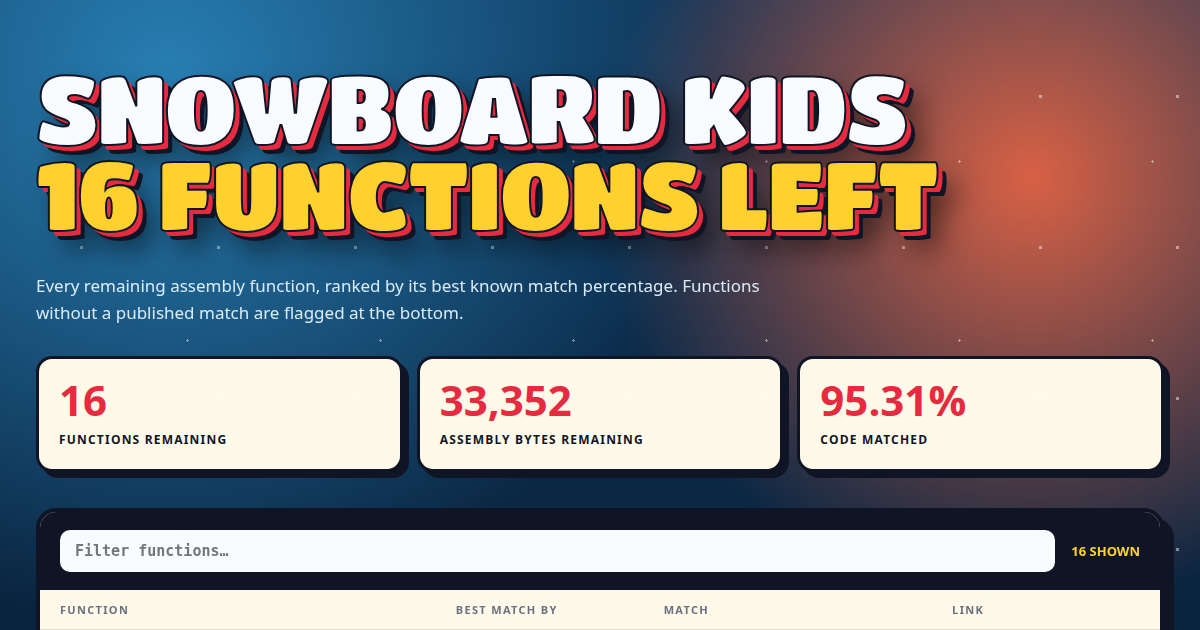
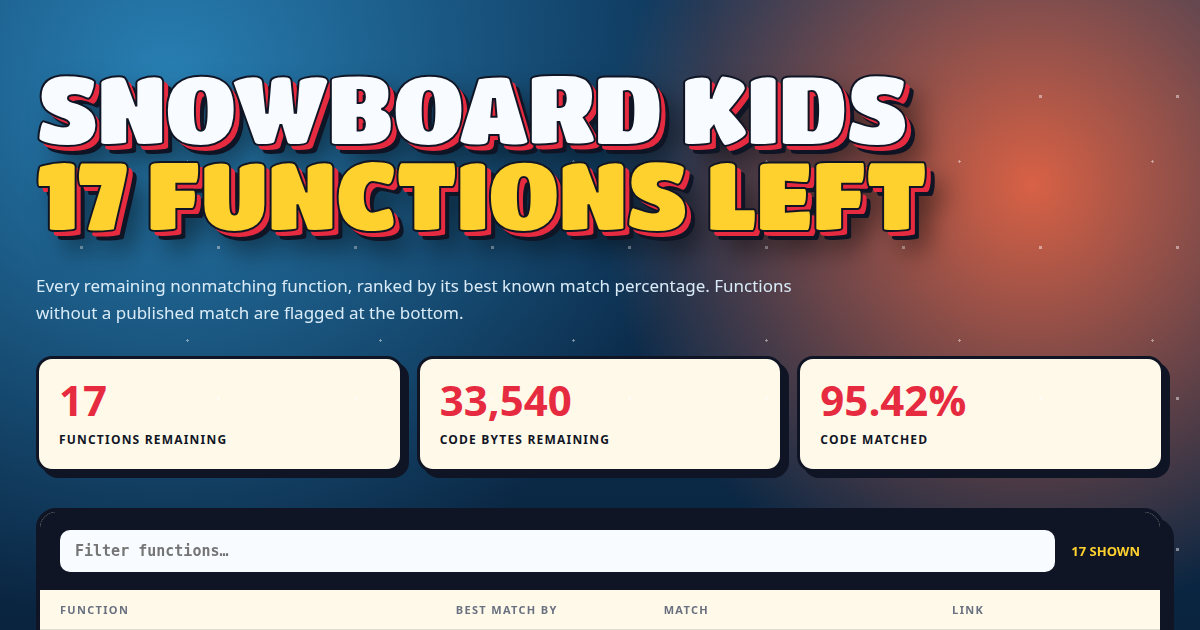
Fix decompilation summary progress metrics

diff --git a/docs/index.html b/docs/index.html
@@ -3,9 +3,9 @@
   <head>
     <meta charset="utf-8" />
     <meta name="viewport" content="width=device-width, initial-scale=1" />
-    <title>Snowboard Kids — 16 Functions Left</title>
+    <title>Snowboard Kids — 17 Functions Left</title>
     <meta name="description" content="Snowboard Kids matching decompilation progress and remaining function report." />
-    <meta property="og:title" content="Snowboard Kids — 16 Functions Left" />
+    <meta property="og:title" content="Snowboard Kids — 17 Functions Left" />
     <meta property="og:description" content="Best known match percentages for the remaining functions." />
     <meta property="og:type" content="website" />
     <meta property="og:image" content="og.png" />
@@ -199,21 +199,21 @@
   </head>
   <body>
     <header>
-      <h1>Snowboard Kids<br /><em>16 functions left</em></h1>
-      <p class="intro">Every remaining assembly function, ranked by its best known match percentage. Functions without a published match are flagged at the bottom.</p>
+      <h1>Snowboard Kids<br /><em>17 functions left</em></h1>
+      <p class="intro">Every remaining nonmatching function, ranked by its best known match percentage. Functions without a published match are flagged at the bottom.</p>
     </header>
 
     <section class="stats" aria-label="Project summary">
-      <div class="stat"><strong>16</strong><span>functions remaining</span></div>
-      <div class="stat"><strong>33,352</strong><span>assembly bytes remaining</span></div>
-      <div class="stat"><strong>95.31%</strong><span>code matched</span></div>
+      <div class="stat"><strong>17</strong><span>functions remaining</span></div>
+      <div class="stat"><strong>33,540</strong><span>code bytes remaining</span></div>
+      <div class="stat"><strong>95.42%</strong><span>code matched</span></div>
     </section>
 
     <main>
       <section class="panel">
         <div class="toolbar">
           <label><input id="search" type="search" placeholder="Filter functions…" autocomplete="off" /></label>
-          <span id="visible-count">16 shown</span>
+          <span id="visible-count">17 shown</span>
         </div>
         <div class="table-head"><span>Function</span><span>Best match by</span><span>Match</span><span>Link</span></div>
         <article class="function-row" data-name="initraceplayer" data-score="99.402810">
@@ -237,7 +237,7 @@
         <article class="function-row" data-name="resolveraceplayercollisionvolumes" data-score="99.094368">
           <div class="function-cell">
             <span class="function-name">resolveRacePlayerCollisionVolumes</span>
-            <span class="function-size">5,256 bytes</span>
+            <span class="function-size">5,264 bytes</span>
           </div>
           <div class="source-cell">cdlewis</div>
           <div class="score-cell"><div class="score-track" aria-label="Match 99.094%"><span style="width:99.094%"></span></div><strong>99.094%</strong></div>
@@ -360,11 +360,20 @@
           <div class="score-cell"><div class="score-track" aria-label="Match 85.427%"><span style="width:85.427%"></span></div><strong>85.427%</strong></div>
           <div class="actions"><a class="action" href="https://decomp.me/scratch/biV4R" target="_blank" rel="noopener">decomp.me ↗</a></div>
         </article>
+        <article class="function-row needs-match" data-name="initmainmenuscenemodel" data-score="0.000000">
+          <div class="function-cell">
+            <span class="function-name">initMainMenuSceneModel</span>
+            <span class="function-size">180 bytes</span>
+          </div>
+          <div class="source-cell">Needs a published match</div>
+          <div class="score-cell"><strong class="missing-score">Not available</strong></div>
+          <div class="actions"><span class="missing-badge">Needs match</span></div>
+        </article>
         <p class="empty" id="empty">No functions match that filter.</p>
       </section>
     </main>
 
-    <footer>Generated 2026-08-17 15:12 UTC · scores are snapshots and may have moved since generation</footer>
+    <footer>Generated 2026-08-17 15:19 UTC · scores are snapshots and may have moved since generation</footer>
     <script>
       const search = document.querySelector("#search");
       const rows = [...document.querySelectorAll(".function-row")];

diff --git a/tools/decompilation_summary/template.html b/tools/decompilation_summary/template.html
@@ -200,12 +200,12 @@
   <body>
     <header>
       <h1>Snowboard Kids<br /><em>{{REMAINING_COUNT}} functions left</em></h1>
-      <p class="intro">Every remaining assembly function, ranked by its best known match percentage. Functions without a published match are flagged at the bottom.</p>
+      <p class="intro">Every remaining nonmatching function, ranked by its best known match percentage. Functions without a published match are flagged at the bottom.</p>
     </header>
 
     <section class="stats" aria-label="Project summary">
       <div class="stat"><strong>{{REMAINING_COUNT}}</strong><span>functions remaining</span></div>
-      <div class="stat"><strong>{{REMAINING_BYTES}}</strong><span>assembly bytes remaining</span></div>
+      <div class="stat"><strong>{{REMAINING_BYTES}}</strong><span>code bytes remaining</span></div>
       <div class="stat"><strong>{{CODE_PERCENT}}</strong><span>code matched</span></div>
     </section>
 

diff --git a/tools/decompilation_summary.py b/tools/decompilation_summary.py
@@ -75,7 +75,7 @@ def find_remaining_functions(repo_root: Path) -> list[RemainingFunction]:
     return functions
 
 
-def progress_measures(report_path: Path) -> dict[str, object]:
+def load_progress_report(report_path: Path) -> dict[str, object]:
     if not report_path.is_file():
         return {}
     try:
@@ -83,8 +83,42 @@ def progress_measures(report_path: Path) -> dict[str, object]:
     except (OSError, json.JSONDecodeError) as exc:
         print(f"warning: could not read {report_path}: {exc}", file=sys.stderr)
         return {}
-    measures = report.get("measures") if isinstance(report, dict) else None
+    return report if isinstance(report, dict) else {}
+
+
+def progress_measures(report: dict[str, object]) -> dict[str, object]:
+    measures = report.get("measures")
     return measures if isinstance(measures, dict) else {}
+
+
+def report_remaining_functions(report: dict[str, object]) -> list[RemainingFunction]:
+    """Return the exact unmatched functions recorded by mapfile_parser."""
+    units = report.get("units")
+    if not isinstance(units, list):
+        return []
+
+    functions: list[RemainingFunction] = []
+    for unit in units:
+        if not isinstance(unit, dict):
+            continue
+        unit_name = unit.get("name")
+        unit_path = Path(unit_name) if isinstance(unit_name, str) else Path()
+        unit_functions = unit.get("functions")
+        if not isinstance(unit_functions, list):
+            continue
+        for function in unit_functions:
+            if not isinstance(function, dict) or function.get("fuzzy_match_percent") == 100:
+                continue
+            name = function.get("name")
+            size = function.get("size")
+            if not isinstance(name, str):
+                continue
+            try:
+                parsed_size = int(size) if size is not None else None
+            except (TypeError, ValueError):
+                parsed_size = None
+            functions.append(RemainingFunction(name, unit_path, parsed_size))
+    return functions
 
 
 def render_rows(
@@ -223,7 +257,8 @@ def main() -> int:
         for root in scan_roots
         if (root / "tools" / "scratches.json").is_file()
     ]
-    functions = find_remaining_functions(repo_root)
+    report = load_progress_report(repo_root / "report.json")
+    functions = report_remaining_functions(report) or find_remaining_functions(repo_root)
     scratch = collect_scratch_results(repo_root, scratches_paths)
 
     template_path = Path(__file__).resolve().parent / "decompilation_summary" / "template.html"
@@ -233,7 +268,7 @@ def main() -> int:
         template_path.read_text(),
         functions,
         scratch,
-        progress_measures(repo_root / "report.json"),
+        progress_measures(report),
     )
     output_path.parent.mkdir(parents=True, exist_ok=True)
     output_path.write_text(document)

diff --git a/tools/test_decompilation_summary.py b/tools/test_decompilation_summary.py
@@ -12,6 +12,7 @@ sys.path.insert(0, str(Path(__file__).resolve().parent))
 
 from decompilation_summary import (
     RemainingFunction,
+    report_remaining_functions,
     render_document,
     screenshot_preview,
 )
@@ -19,6 +20,27 @@ from report_nonmatching_matches import ScratchResult
 
 
 class RemainingFunctionsTest(unittest.TestCase):
+    def test_report_is_canonical_for_remaining_functions_and_sizes(self) -> None:
+        report = {
+            "units": [
+                {
+                    "name": "build/src/example",
+                    "functions": [
+                        {"name": "matched", "size": "16", "fuzzy_match_percent": 100.0},
+                        {"name": "assembly", "size": "24"},
+                        {"name": "nonmatchingC", "size": "32", "fuzzy_match_percent": 99.0},
+                    ],
+                }
+            ]
+        }
+
+        functions = report_remaining_functions(report)
+
+        self.assertEqual(
+            [(function.name, function.size) for function in functions],
+            [("assembly", 24), ("nonmatchingC", 32)],
+        )
+
     def test_render_document_replaces_summary_markers(self) -> None:
         function = RemainingFunction("example", Path("example"), 16)
         scratch = ScratchResult("example", 99.0, 1, 100, "abcde", False, "racer")
